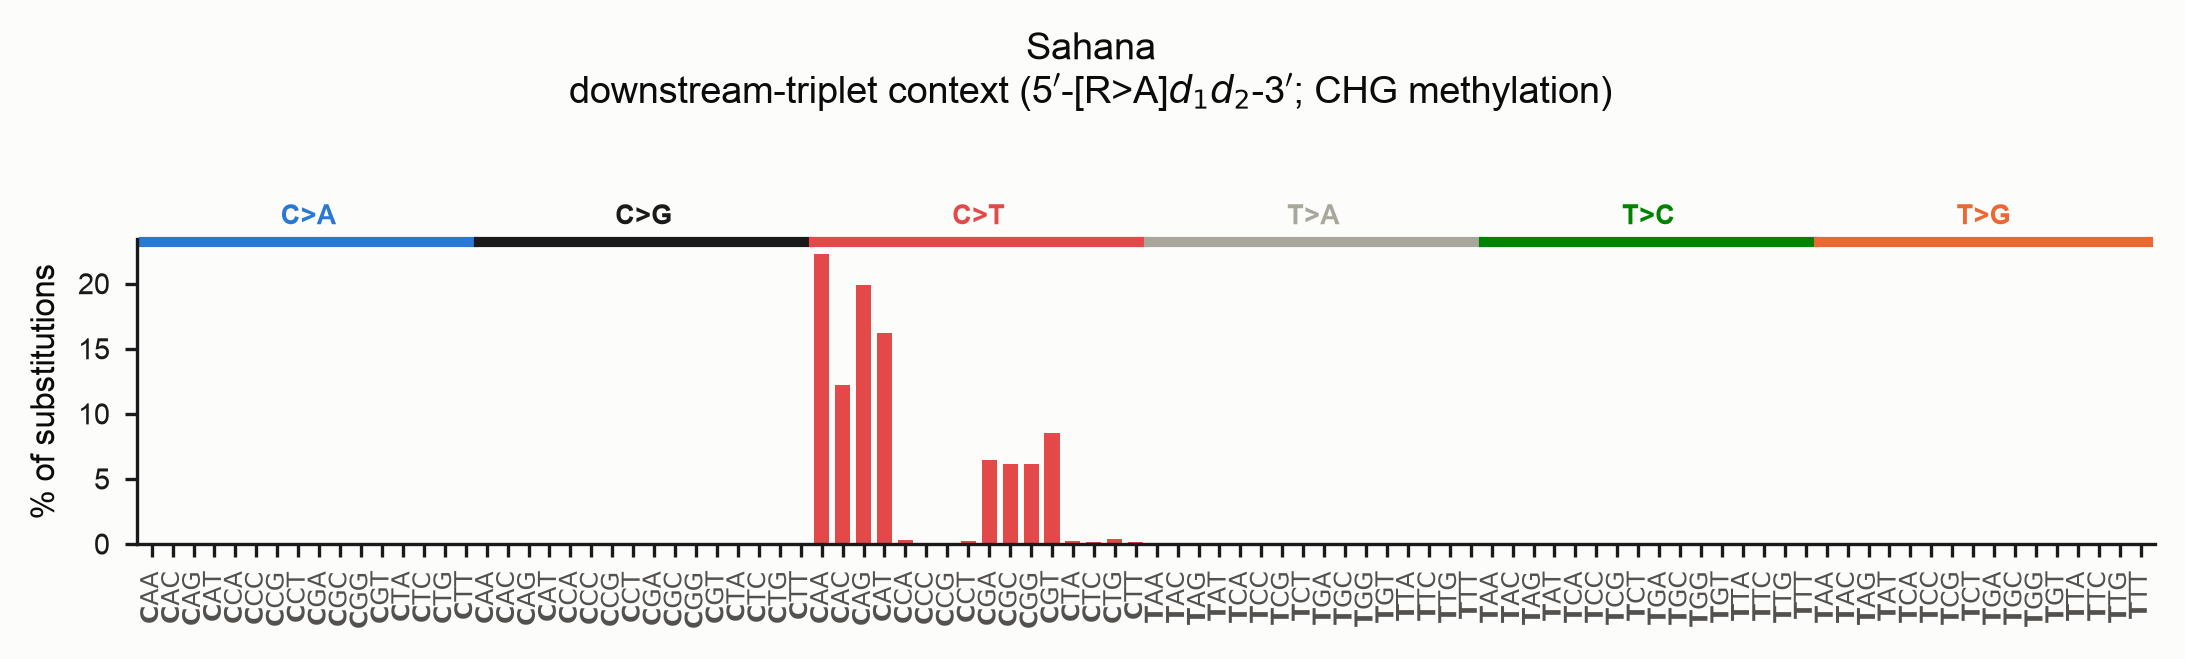
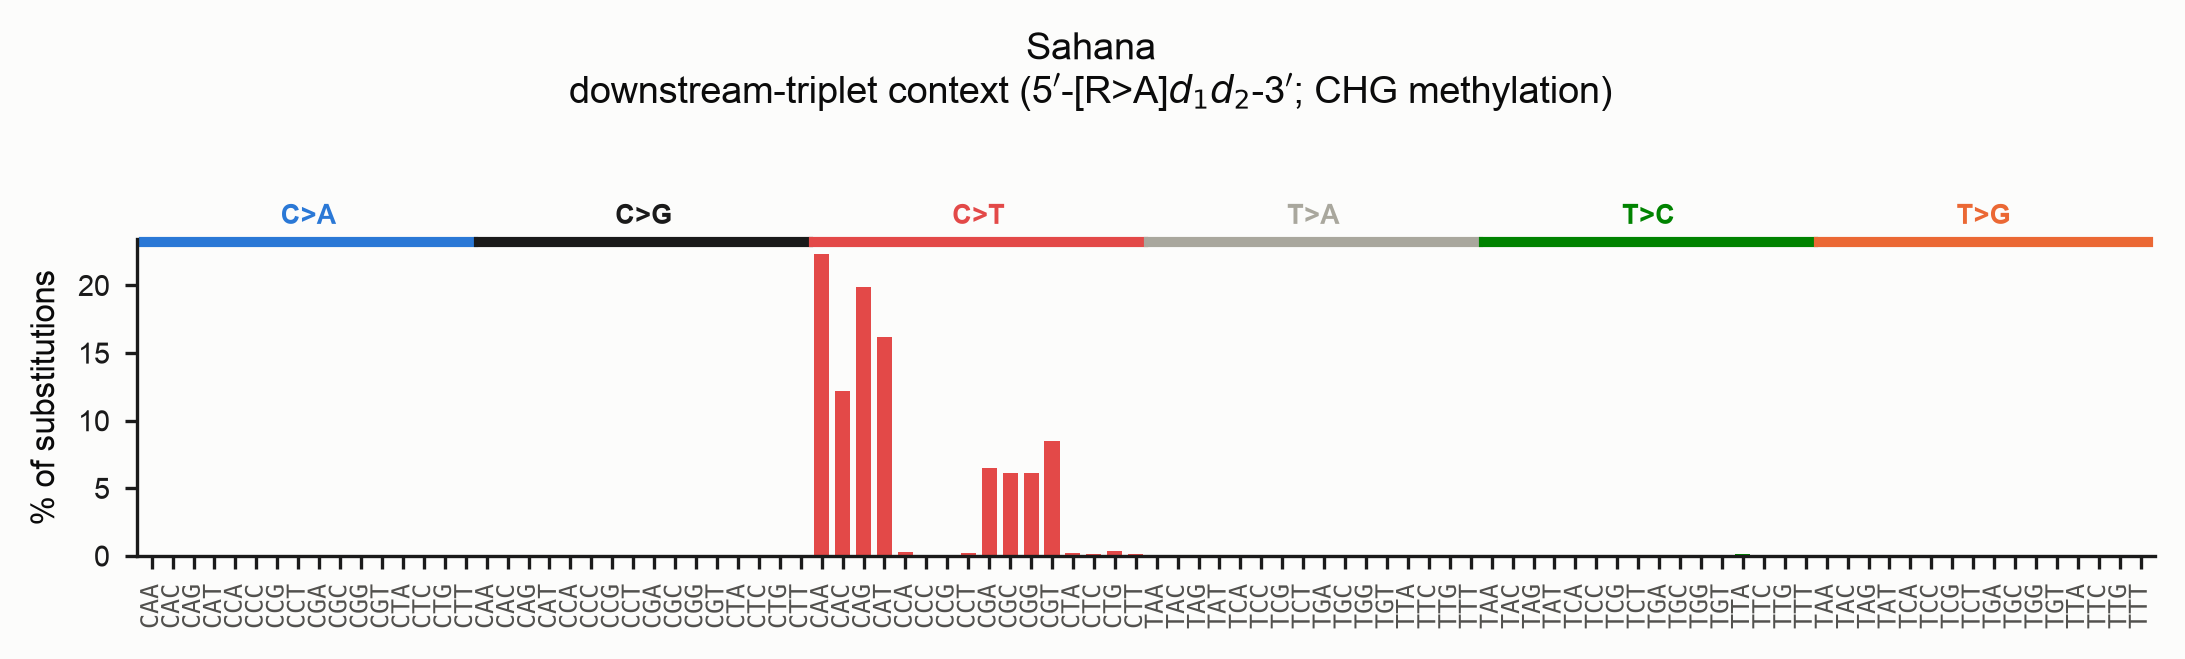
fix(plotting): equal-width monospace tick labels with a bold mutated base
Mixing monospace flanks with a proportional bold glyph made the 3 bp motif
labels unequal width. Render every base in monospace and set the mutated base
bold via nested \mathbf{\mathtt{...}} (monospace bold keeps the same advance
width), so all labels align and the mutated base still reads clearly heavier.
Also clarify in the tutorial that the per-group demo bins the alignment into
arbitrary subsets, not genomic scaffolds. Regenerate the baseline figures.

Claude-Session: https://claude.ai/code/session_01KkpRnfKu9BY7FYFry7sYRV

diff --git a/src/derip2/plotting/spectra.py b/src/derip2/plotting/spectra.py
@@ -88,11 +88,12 @@ def _mono_bold(chars: str, bold_index: int) -> str:
     Render a short motif as mathtext with one character emphasised in bold.
 
     matplotlib cannot bold a single character of an ordinary tick label, so the
-    motif is built as a mathtext string: the flanking bases are typeset in the
-    light roman math font (``\\mathrm``) and the mutated base at ``bold_index`` in
-    the bold font (``\\mathbf``). Pairing thin roman flanks with a bold centre
-    maximises the weight contrast, so the mutated (substituted) base stands out
-    clearly -- a monospace flank font is itself heavy and would mute the emphasis.
+    motif is built as a mathtext string. Every base is typeset in the **monospace**
+    math font so all three characters share one fixed advance width (and every
+    3 bp label is therefore the same length); the mutated base at ``bold_index`` is
+    additionally set bold via ``\\mathbf{\\mathtt{...}}``. Monospace bold keeps the
+    same advance width as monospace regular, so the emphasis does not disturb the
+    label alignment.
 
     Parameters
     ----------
@@ -105,10 +106,10 @@ def _mono_bold(chars: str, bold_index: int) -> str:
     Returns
     -------
     str
-        A mathtext string, e.g. ``r'$\\mathrm{A}\\mathbf{C}\\mathrm{G}$'``.
+        A mathtext string, e.g. ``r'$\\mathtt{A}\\mathbf{\\mathtt{C}}\\mathtt{G}$'``.
     """
     parts = [
-        (r'\mathbf{%s}' if i == bold_index else r'\mathrm{%s}') % ch
+        (r'\mathbf{\mathtt{%s}}' if i == bold_index else r'\mathtt{%s}') % ch
         for i, ch in enumerate(chars)
     ]
     return '$' + ''.join(parts) + '$'

diff --git a/tests/test_spectra_plot.py b/tests/test_spectra_plot.py
@@ -127,9 +127,9 @@ def test_multi_sample_sbs192_has_one_panel_per_sample(result_multi):
 
 
 def test_mono_bold_marks_one_character():
-    """_mono_bold bolds exactly the requested char and sets the rest thin roman."""
-    assert sp._mono_bold('ACG', 0) == r'$\mathbf{A}\mathrm{C}\mathrm{G}$'
-    assert sp._mono_bold('ACG', 1) == r'$\mathrm{A}\mathbf{C}\mathrm{G}$'
+    """_mono_bold bolds one char and keeps every char equal-width monospace."""
+    assert sp._mono_bold('ACG', 0) == r'$\mathbf{\mathtt{A}}\mathtt{C}\mathtt{G}$'
+    assert sp._mono_bold('ACG', 1) == r'$\mathtt{A}\mathbf{\mathtt{C}}\mathtt{G}$'
 
 
 def test_plot_downstream_writes_file(tmp_path, result_downstream):
@@ -154,9 +154,9 @@ def test_sbs96_ticks_bold_middle_base(result):
     """Trinucleotide motif ticks bold the middle (mutated) base via mathtext."""
     fig = sp.plot_sbs96(result)
     labels = [t.get_text() for t in fig.axes[0].get_xticklabels()]
-    # Middle base bold: thin roman first flank, then a bold group.
+    # Middle base bold: monospace first flank, then a bold-monospace group.
     assert labels and all(
-        lab.startswith(r'$\mathrm{') and r'\mathbf{' in lab for lab in labels
+        lab.startswith(r'$\mathtt{') and r'\mathbf{\mathtt{' in lab for lab in labels
     )
     plt.close(fig)
 

diff --git a/docs/tutorials/mutation-spectra.md b/docs/tutorials/mutation-spectra.md
@@ -346,8 +346,9 @@ sample.
 ![Per-group spectra](../img/spectra_groups.png)
 
 !!! note "Grouping in the example"
-    The Sahana copies have no species labels, so this figure bins them by genomic
-    scaffold purely to illustrate the mechanic. In practice the labels would be
+    The Sahana copies have no species labels, so this figure simply splits the
+    alignment into a few **arbitrary subsets** purely to illustrate the mechanic —
+    the groups carry no biological meaning here. In practice the labels would be
     your species or population names, and the panels would let you compare, say,
     RIP intensity between a methylation-competent and a methylation-deficient
     lineage.